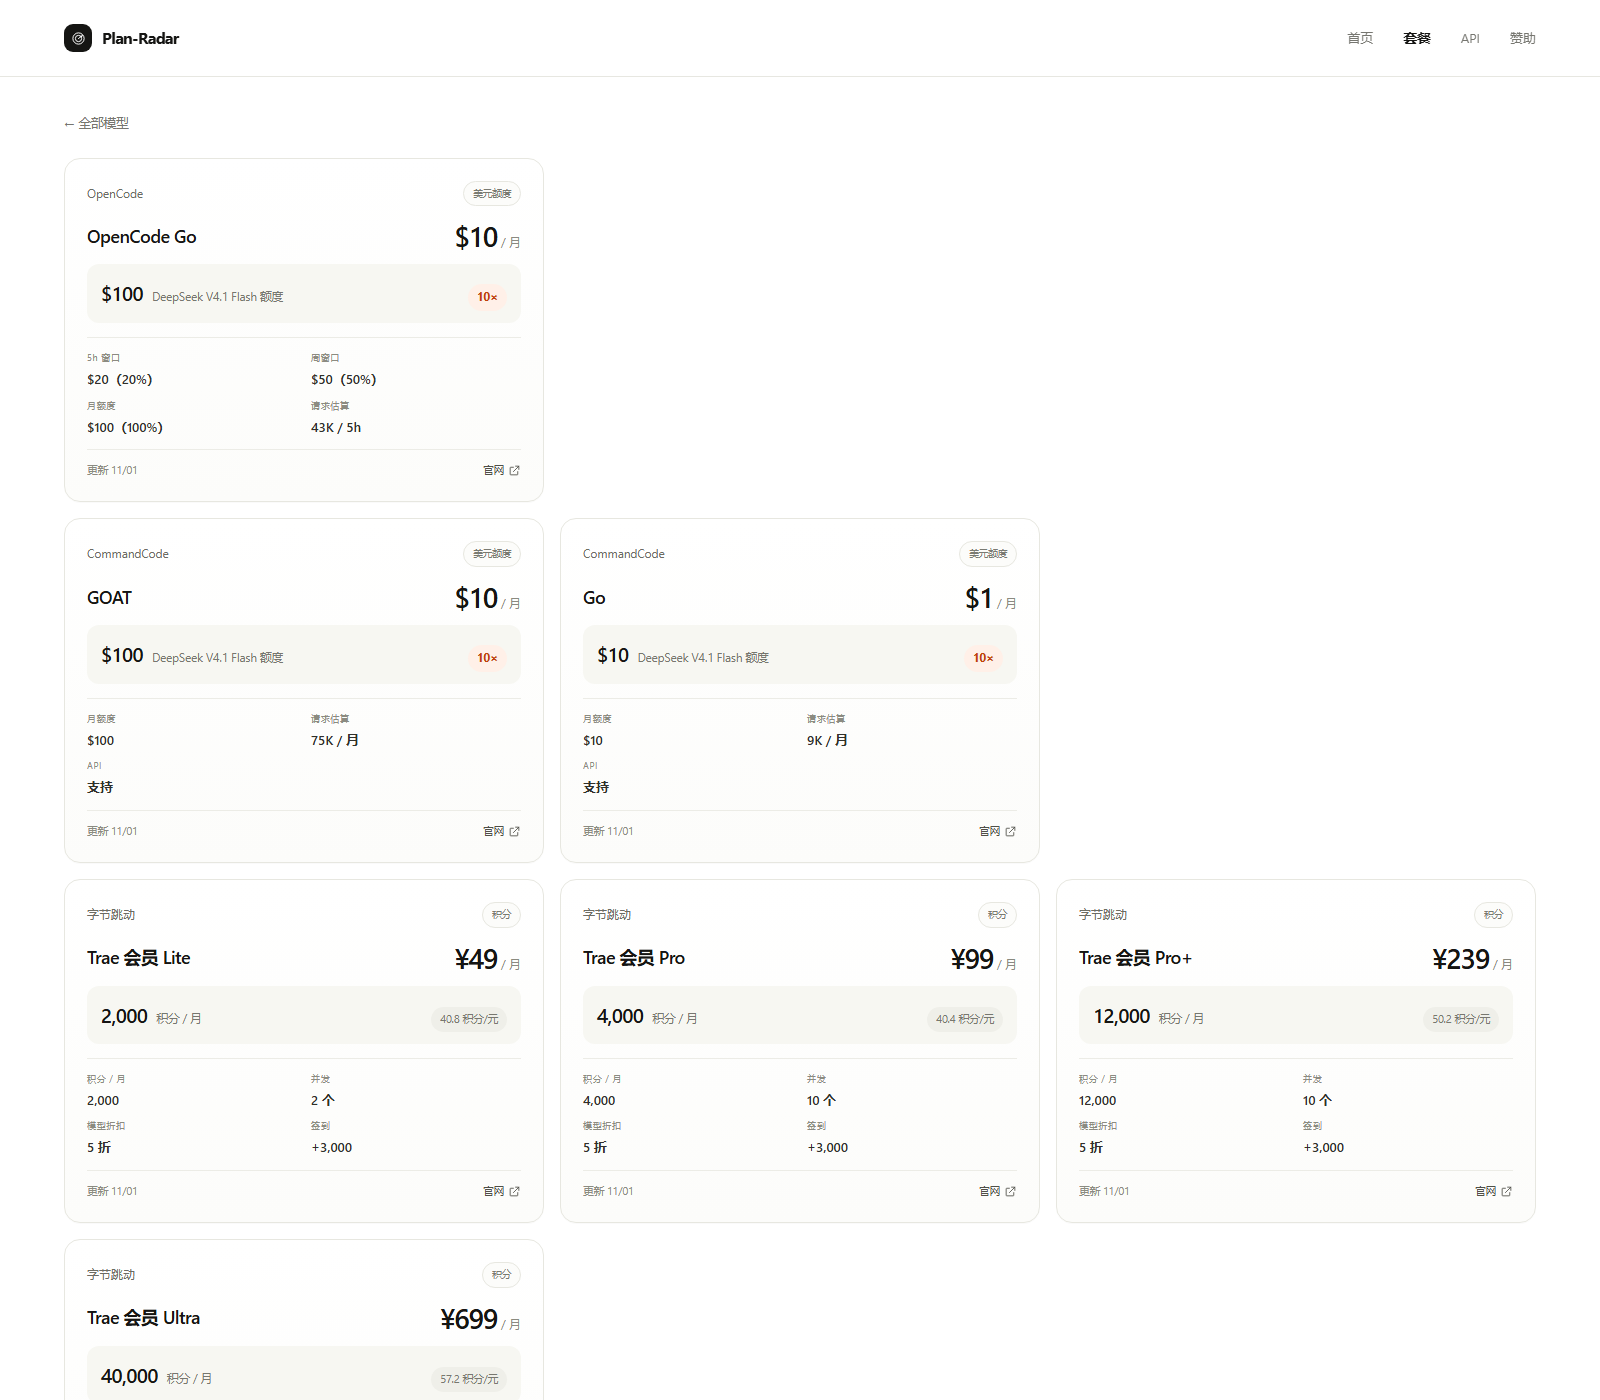
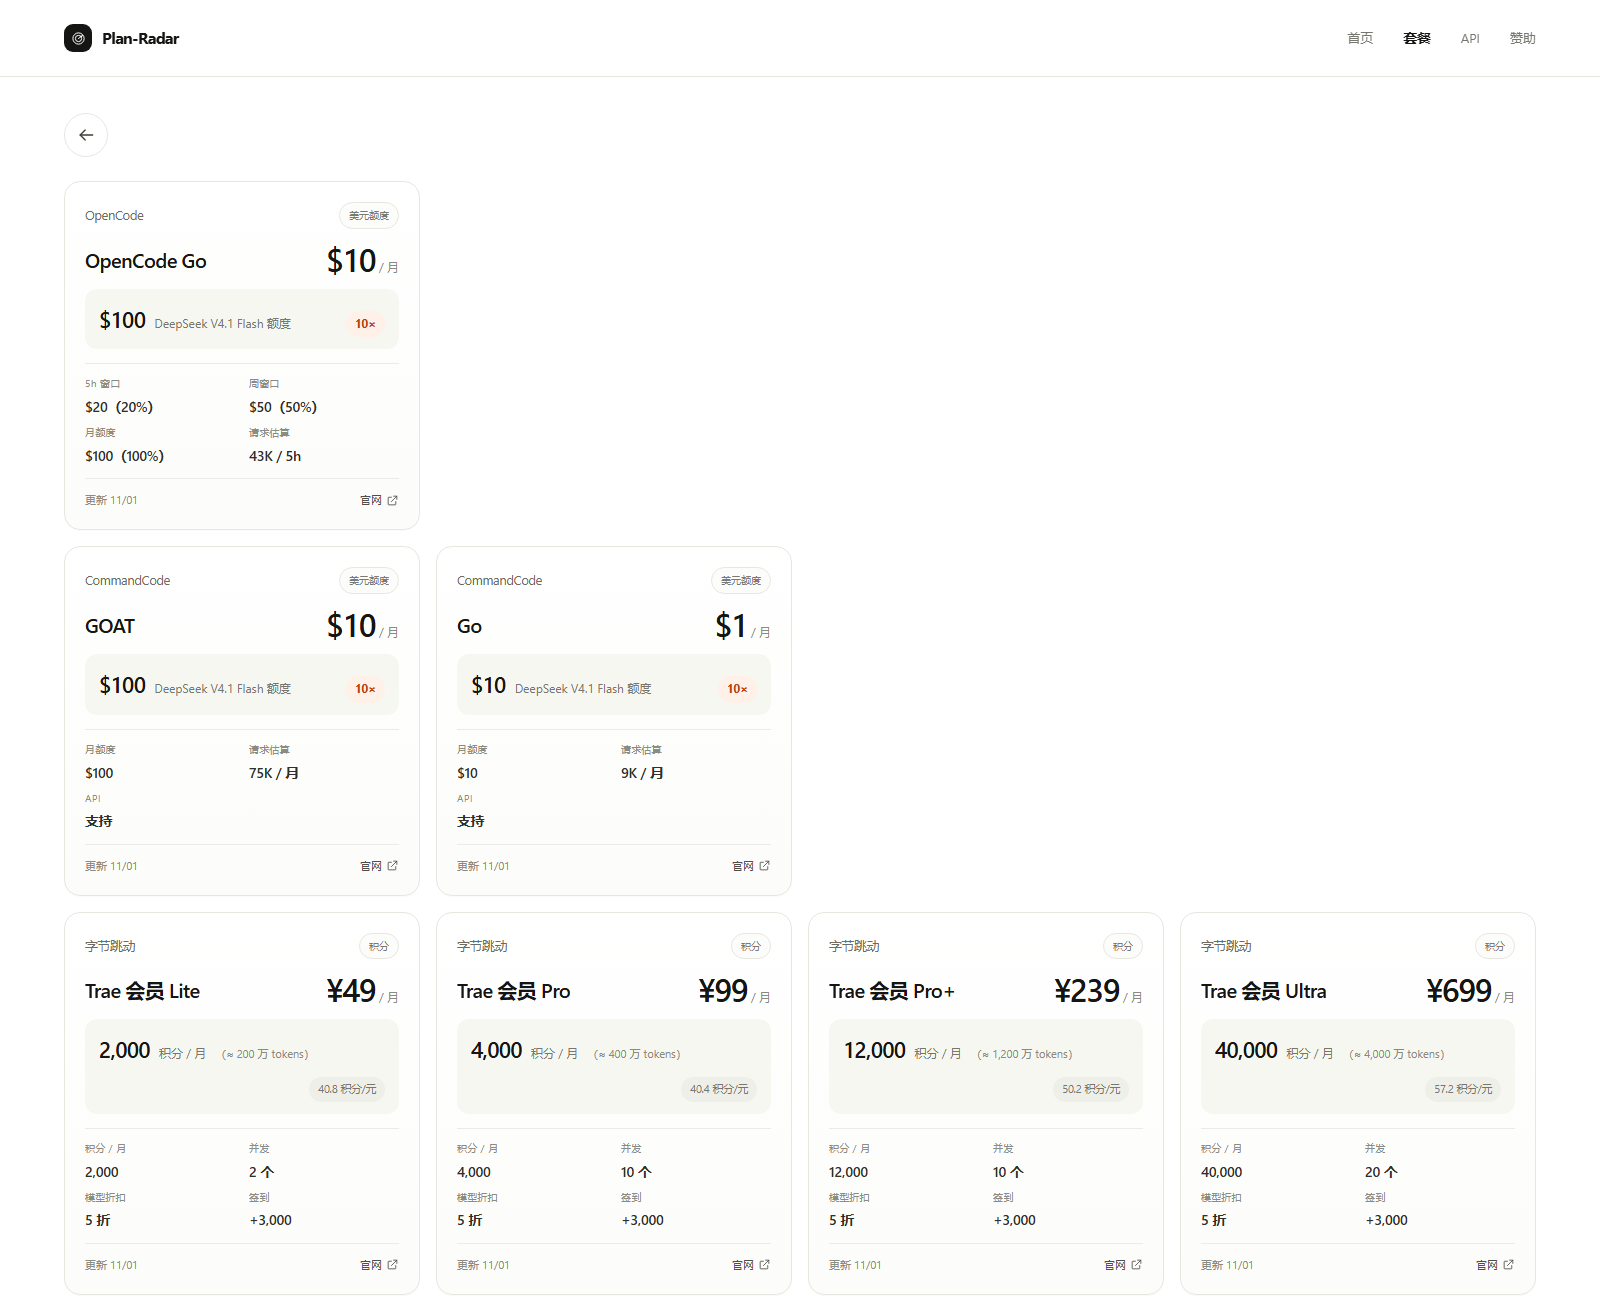
fix: compact 4-column plan cards

diff --git a/app/globals.css b/app/globals.css
@@ -637,6 +637,25 @@ h1, h2, h3, p { margin: 0; }
   gap: 20px;
   padding-top: 36px;
 }
+.back-arrow {
+  display: inline-flex;
+  align-items: center;
+  justify-content: center;
+  width: 44px;
+  height: 44px;
+  border: 1px solid var(--line);
+  border-radius: 50%;
+  background: #fff;
+  color: var(--ink-2);
+  transition: background 0.18s ease, border-color 0.18s ease, color 0.18s ease;
+}
+.back-arrow svg,
+.back-arrow .icon { width: 20px; height: 20px; }
+.back-arrow:hover {
+  background: var(--soft);
+  border-color: var(--line-2);
+  color: var(--ink);
+}
 .detail-top .eyebrow { margin-bottom: 0; }
 .model-head {
   display: flex;
@@ -744,20 +763,21 @@ h1, h2, h3, p { margin: 0; }
   .plan-grid { grid-template-columns: repeat(3, minmax(0, 1fr)); }
 }
 .plan-groups { display: flex; flex-direction: column; gap: 16px; margin-top: 24px; }
-.plan-group-row { display: grid; grid-template-columns: repeat(3, minmax(0, 1fr)); gap: 16px; }
-.plan-card.compact { padding: 22px; border-radius: 16px; }
-.plan-card.compact .plan-top { margin-bottom: 16px; }
-.plan-card.compact .plan-name { font-size: 18px; }
-.plan-card.compact .pd-title-row .price { font-size: 28px; }
+.plan-group-row { display: grid; grid-template-columns: repeat(4, minmax(0, 1fr)); gap: 16px; }
+.plan-card.compact { padding: 20px; border-radius: 16px; }
+.plan-card.compact .plan-top { margin-bottom: 14px; }
+.plan-card.compact .plan-name { font-size: 20px; }
+.plan-card.compact .pd-title-row .price { font-size: 32px; }
 .plan-card.compact .quota { margin-top: 14px; padding: 12px 14px; border-radius: 12px; }
-.plan-card.compact .quota-value { font-size: 20px; }
+.plan-card.compact .quota-value { font-size: 22px; }
 .plan-card.compact .pd-specs {
   grid-template-columns: repeat(2, minmax(0, 1fr));
   gap: 10px 14px;
   margin-top: 14px;
   padding-top: 12px;
 }
-.plan-card.compact .pd-spec b { font-size: 13px; }
+.plan-card.compact .pd-spec span { font-size: 9.5px; }
+.plan-card.compact .pd-spec b { font-size: 13.5px; }
 .plan-card.compact .plan-foot { margin-top: 14px; padding-top: 12px; }
 .plan-card {
   display: flex;
@@ -782,7 +802,7 @@ h1, h2, h3, p { margin: 0; }
   margin-bottom: 22px;
 }
 .provider-name {
-  font-size: 12px;
+  font-size: 12.5px;
   color: #6c6c64;
   letter-spacing: -0.01em;
 }
@@ -792,7 +812,7 @@ h1, h2, h3, p { margin: 0; }
   border: 1px solid #e7e7e0;
   border-radius: 999px;
   background: #fcfcfa;
-  font-size: 9.5px;
+  font-size: 10px;
   color: #7a7a72;
   white-space: nowrap;
 }
@@ -816,6 +836,7 @@ h1, h2, h3, p { margin: 0; }
 
 .quota {
   display: flex;
+  flex-wrap: wrap;
   align-items: baseline;
   gap: 9px;
   margin-top: 18px;
@@ -830,7 +851,8 @@ h1, h2, h3, p { margin: 0; }
   letter-spacing: -0.03em;
   font-variant-numeric: tabular-nums;
 }
-.quota-label { font-size: 11.5px; color: #77776f; }
+.quota-label { font-size: 12px; color: #77776f; }
+.quota-estimate { font-size: 11px; color: #8a8a80; white-space: nowrap; }
 .mult {
   margin-left: auto;
   padding: 4px 9px;
@@ -866,7 +888,7 @@ h1, h2, h3, p { margin: 0; }
   display: flex;
   align-items: center;
   justify-content: space-between;
-  font-size: 10.5px;
+  font-size: 11px;
   color: #8b8b81;
 }
 .plan-foot a { color: #4f4f48; display: inline-flex; align-items: center; gap: 4px; }
@@ -1239,6 +1261,10 @@ h1, h2, h3, p { margin: 0; }
 .api-callout p { margin-top: 5px; font-size: 12px; color: var(--muted); }
 
 /* ---------- responsive ---------- */
+
+@media (max-width: 1280px) {
+  .plan-group-row { grid-template-columns: repeat(3, minmax(0, 1fr)); }
+}
 
 @media (max-width: 980px) {
   .plan-grid { grid-template-columns: 1fr; }

diff --git a/lib/plans.ts b/lib/plans.ts
@@ -24,6 +24,7 @@ export interface Plan {
   priceUnit: string;
   quotaValue: string;
   quotaLabel: string;
+  tokenEstimate?: string;
   multiplier?: string;
   ratio?: string;
   ratioFree?: boolean;
@@ -209,6 +210,7 @@ export const cnPlans: Plan[] = [
     priceUnit: "起 / 月",
     quotaValue: "2,000",
     quotaLabel: "积分 / 5h",
+    tokenEstimate: "≈ 200 万 tokens",
     ratio: "111 积分/$",
     specs: [
       { label: "5h 额度", value: "2,000 积分" },
@@ -232,6 +234,7 @@ export const cnPlans: Plan[] = [
     priceUnit: "/ 月",
     quotaValue: "2,000",
     quotaLabel: "积分 / 月",
+    tokenEstimate: "≈ 200 万 tokens",
     ratio: "40.8 积分/元",
     specs: [
       { label: "积分 / 月", value: "2,000" },
@@ -255,6 +258,7 @@ export const cnPlans: Plan[] = [
     priceUnit: "/ 月",
     quotaValue: "4,000",
     quotaLabel: "积分 / 月",
+    tokenEstimate: "≈ 400 万 tokens",
     ratio: "40.4 积分/元",
     specs: [
       { label: "积分 / 月", value: "4,000" },
@@ -278,6 +282,7 @@ export const cnPlans: Plan[] = [
     priceUnit: "/ 月",
     quotaValue: "12,000",
     quotaLabel: "积分 / 月",
+    tokenEstimate: "≈ 1,200 万 tokens",
     ratio: "50.2 积分/元",
     specs: [
       { label: "积分 / 月", value: "12,000" },
@@ -301,6 +306,7 @@ export const cnPlans: Plan[] = [
     priceUnit: "/ 月",
     quotaValue: "40,000",
     quotaLabel: "积分 / 月",
+    tokenEstimate: "≈ 4,000 万 tokens",
     ratio: "57.2 积分/元",
     specs: [
       { label: "积分 / 月", value: "40,000" },

diff --git a/app/api/[model]/page.tsx b/app/api/[model]/page.tsx
@@ -1,5 +1,6 @@
 import { notFound } from "next/navigation";
 import { ApiCard } from "@/components/ApiCard";
+import { Icon } from "@/components/Icon";
 import { apiChannels, tokenPrices } from "@/lib/api";
 import {
   apisForModel,
@@ -27,8 +28,8 @@ export default async function ModelApiPage({
     <div className="wrap">
       <h1 className="visually-hidden">{model.name}</h1>
       <div className="detail-top">
-        <a className="link-arrow" href="/api/">
-          ← 全部模型
+        <a className="back-arrow" href="/api/" aria-label="返回模型列表">
+          <Icon name="arrow-left" />
         </a>
       </div>
 

diff --git a/app/plans/[model]/page.tsx b/app/plans/[model]/page.tsx
@@ -1,4 +1,5 @@
 import { notFound } from "next/navigation";
+import { Icon } from "@/components/Icon";
 import { PlanCard } from "@/components/PlanCard";
 import {
   getModel,
@@ -36,8 +37,8 @@ export default async function ModelPlansPage({
     <div className="wrap">
       <h1 className="visually-hidden">{model.name}</h1>
       <div className="detail-top">
-        <a className="link-arrow" href="/plans/">
-          ← 全部模型
+        <a className="back-arrow" href="/plans/" aria-label="返回模型列表">
+          <Icon name="arrow-left" />
         </a>
       </div>
 

diff --git a/components/PlanCard.tsx b/components/PlanCard.tsx
@@ -32,6 +32,14 @@ export function PlanCard({
       <div className="quota">
         <span className="quota-value">{plan.quotaValue}</span>
         <span className="quota-label">{plan.quotaLabel}</span>
+        {plan.tokenEstimate ? (
+          <span
+            className="quota-estimate"
+            title="按 1 积分 ≈ 1K tokens 估算"
+          >
+            （{plan.tokenEstimate}）
+          </span>
+        ) : null}
         {plan.multiplier ? (
           <span className="mult">{plan.multiplier}</span>
         ) : plan.ratio ? (

diff --git a/components/Icon.tsx b/components/Icon.tsx
@@ -3,6 +3,7 @@ import type { ReactNode, SVGProps } from "react";
 export type IconName =
   | "radar"
   | "arrow"
+  | "arrow-left"
   | "external"
   | "github"
   | "star"
@@ -25,6 +26,12 @@ const paths: Record<IconName, ReactNode> = {
     <>
       <path d="M4 12h15" />
       <path d="m13 6 6 6-6 6" />
+    </>
+  ),
+  "arrow-left": (
+    <>
+      <path d="M20 12H5" />
+      <path d="m11 18-6-6 6-6" />
     </>
   ),
   external: (
